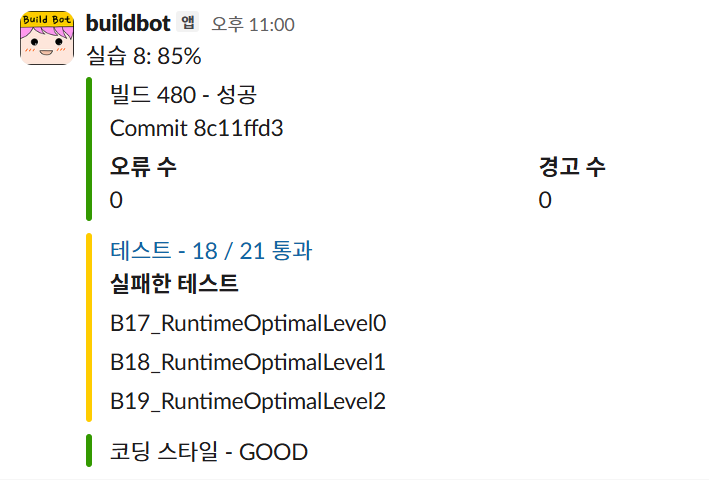
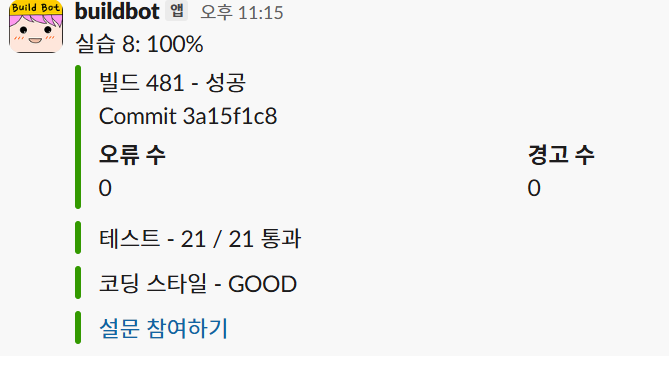
sejjeong: 251103 POCU 실습8

Changed region(s): [[0.0, 0.0, 0.568, 0.9837], [0.7474, 0.3279, 0.8969, 0.4472], [0.7773, 0.477, 0.8072, 0.5366]]

diff --git a/sejjeong/251103.md b/sejjeong/251103.md
@@ -7,7 +7,7 @@
 **문제 링크**: 
 
 **오늘의 메모(선택)**: 
-                85% 완료 최적화 진행중...
+                100% 완료
 
 **코드(선택)**:
 
